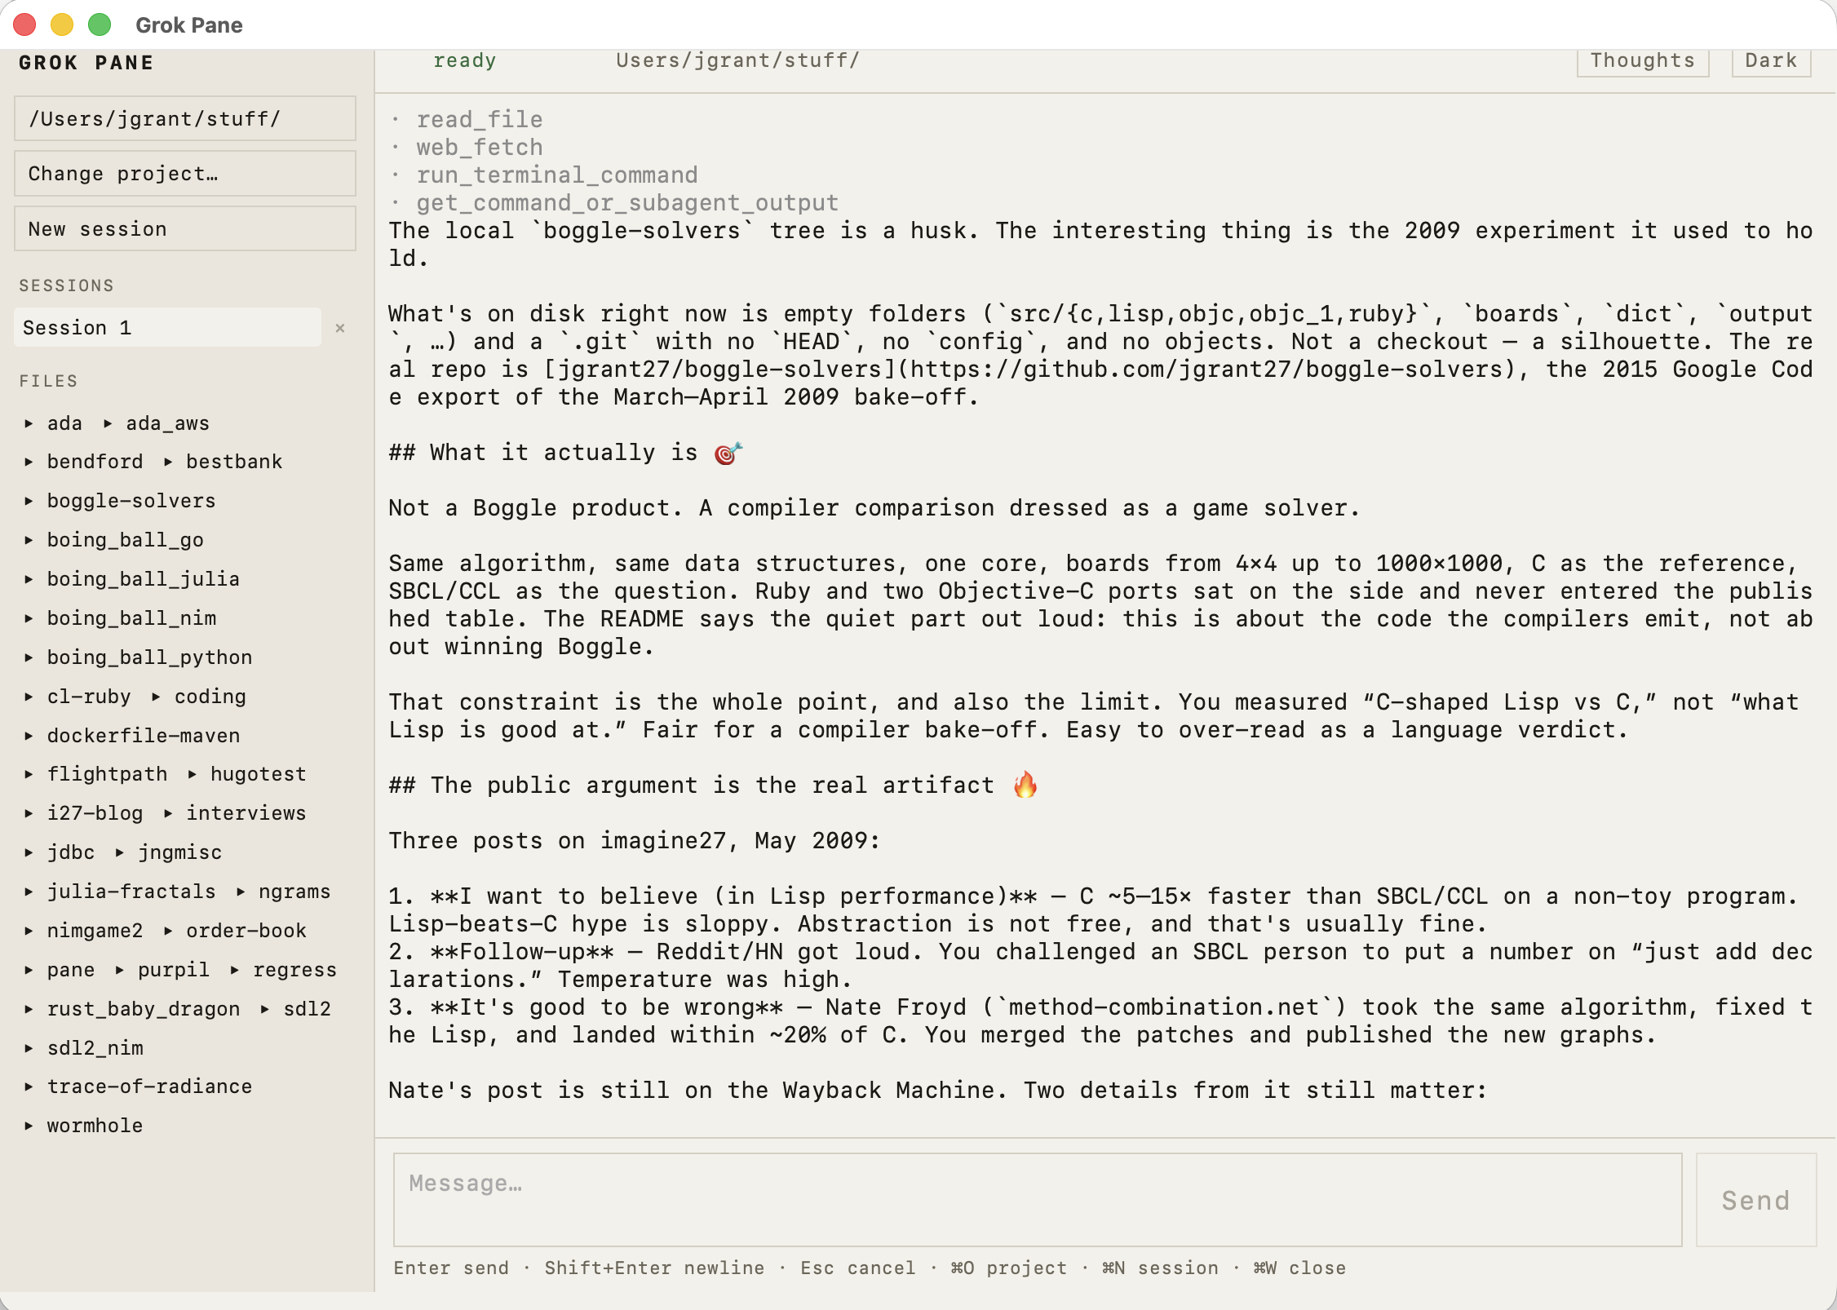
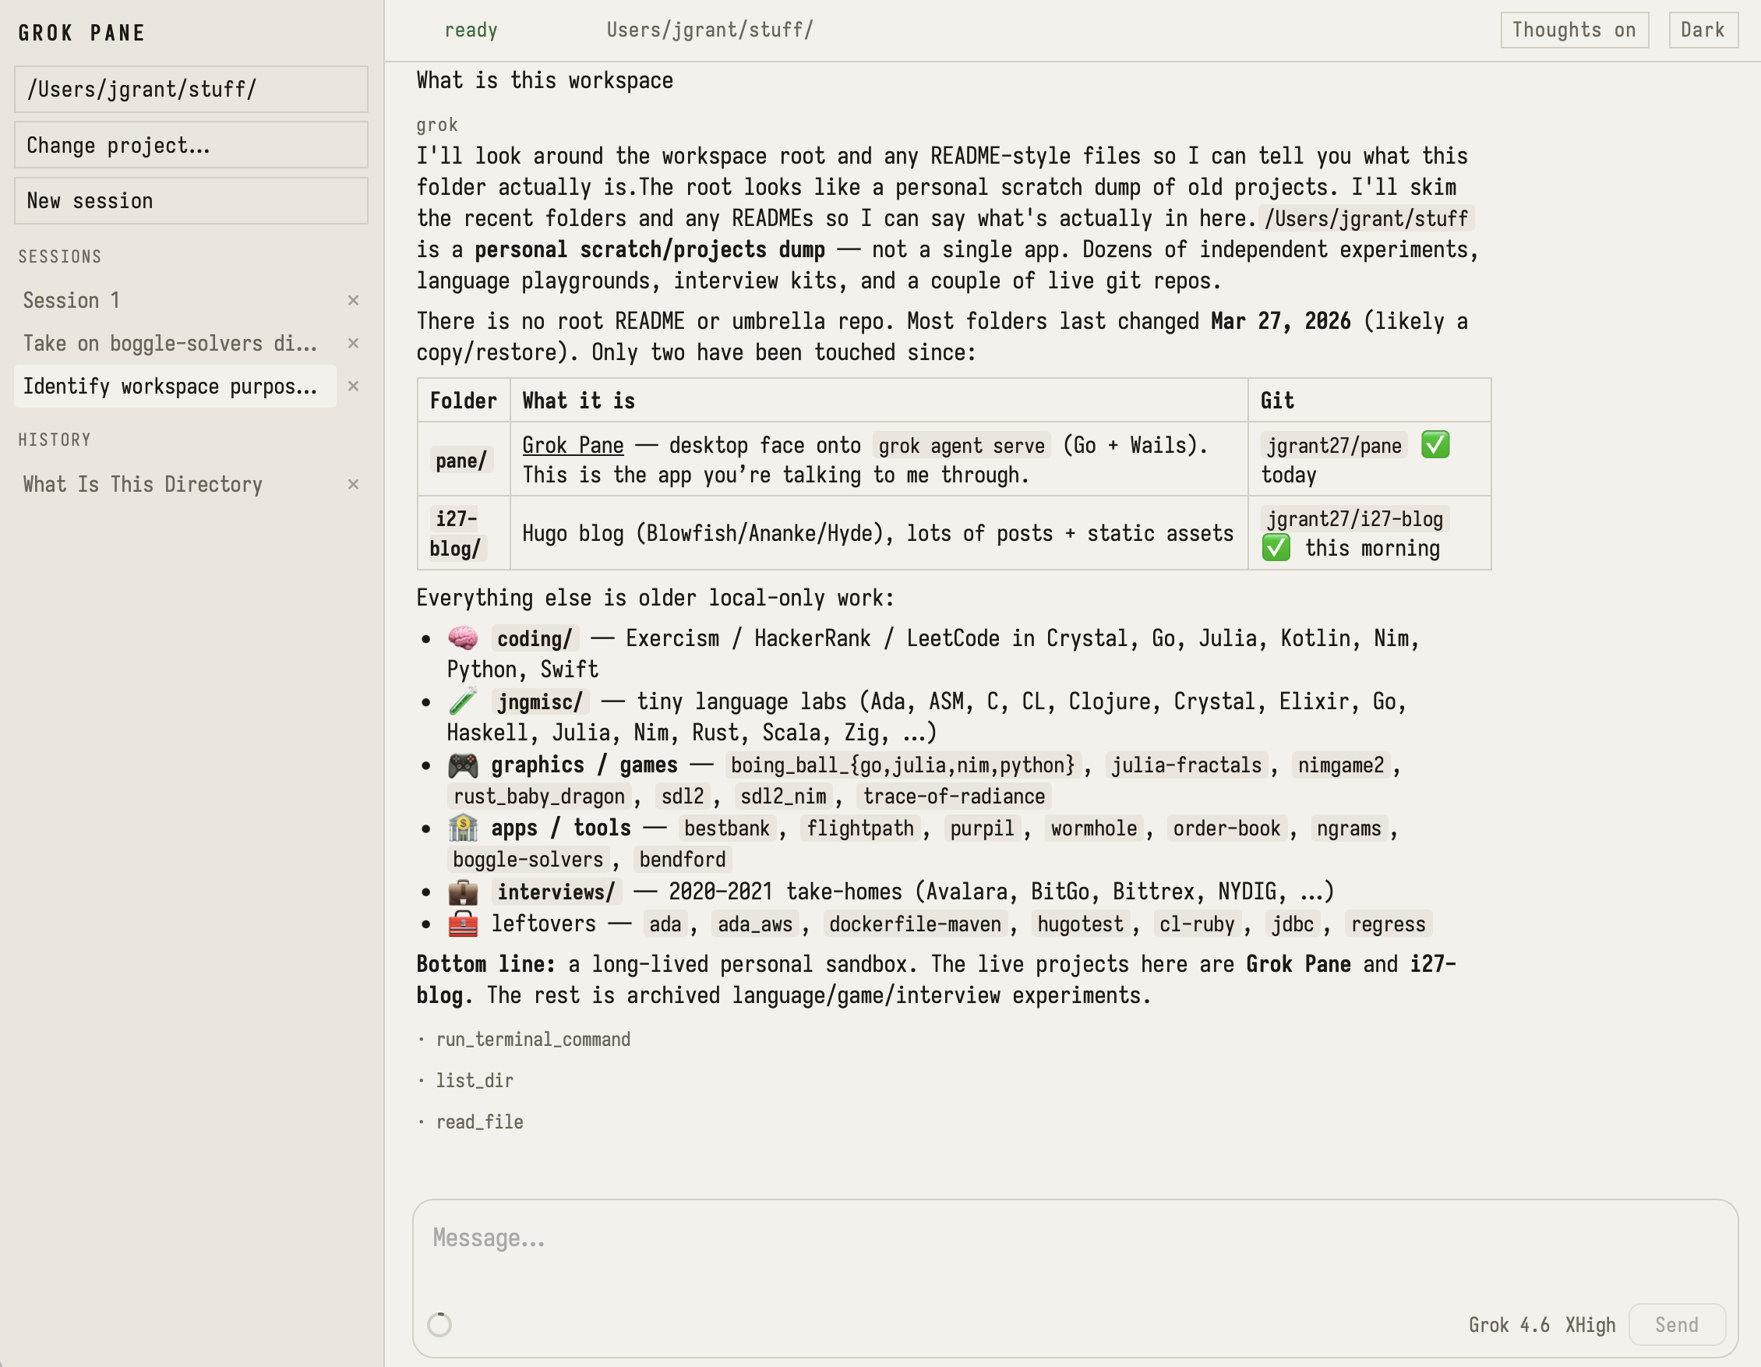
Update README screenshots for the current light and dark UI.

diff --git a/README.md b/README.md
@@ -15,7 +15,13 @@ Two programs:
 
 Light theme is the default.
 
-![Grok Pane — sessions, file tree, and transcript](docs/screenshot.jpg)
+**Light**
+
+![Grok Pane — light theme](docs/screenshot.jpg)
+
+**Dark**
+
+![Grok Pane — dark theme](docs/screenshot-dark.jpg)
 
 ---
 
